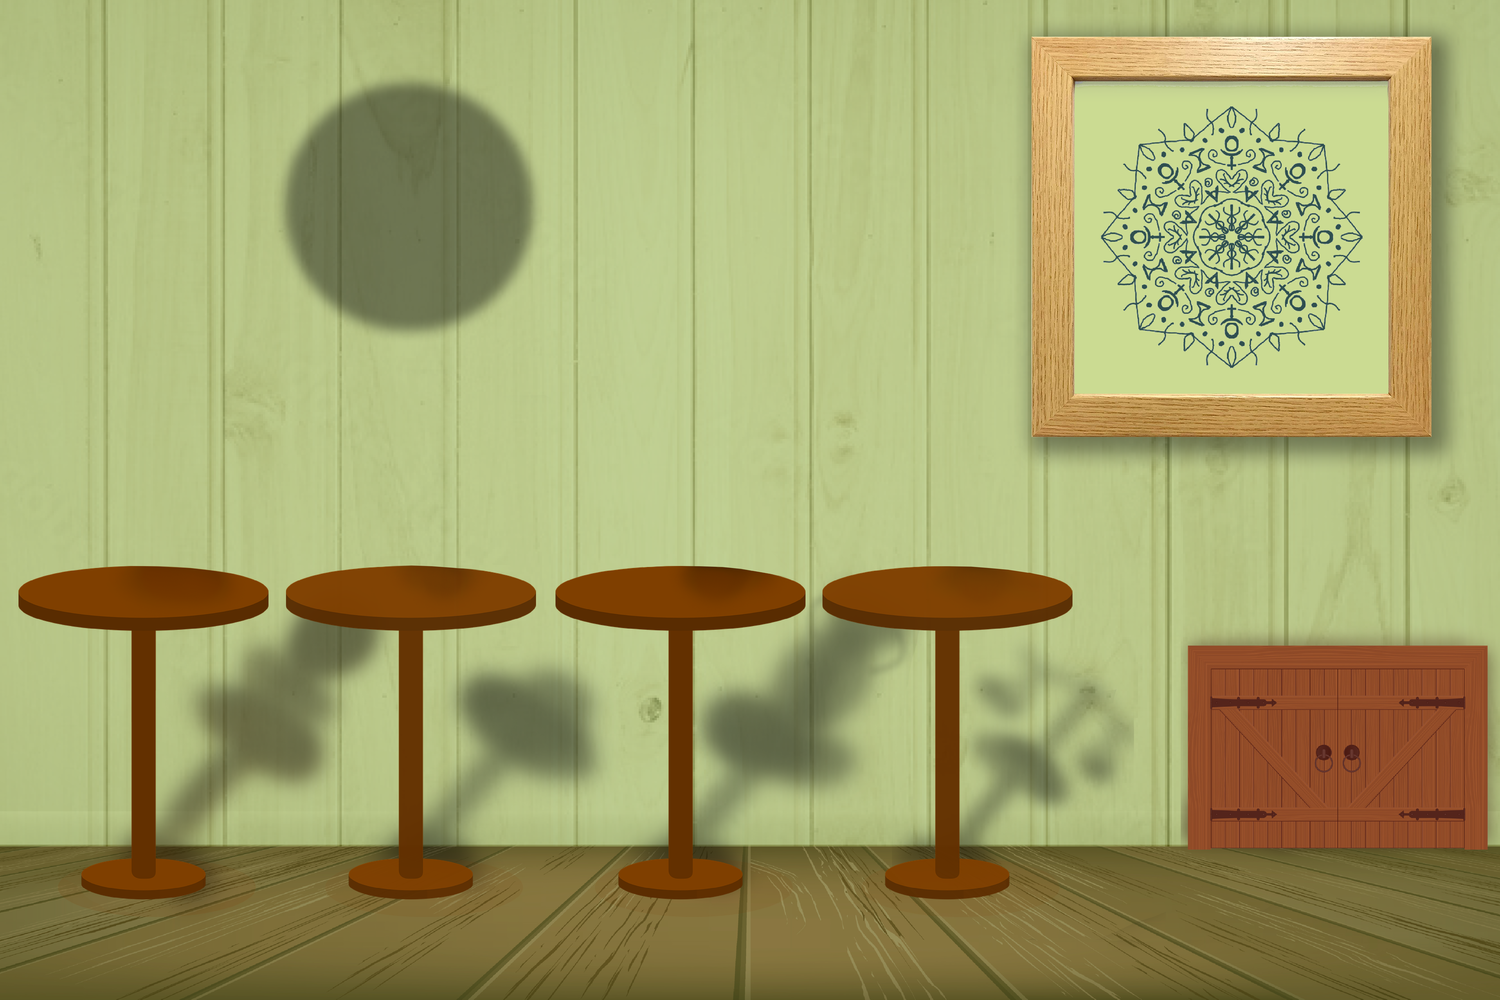
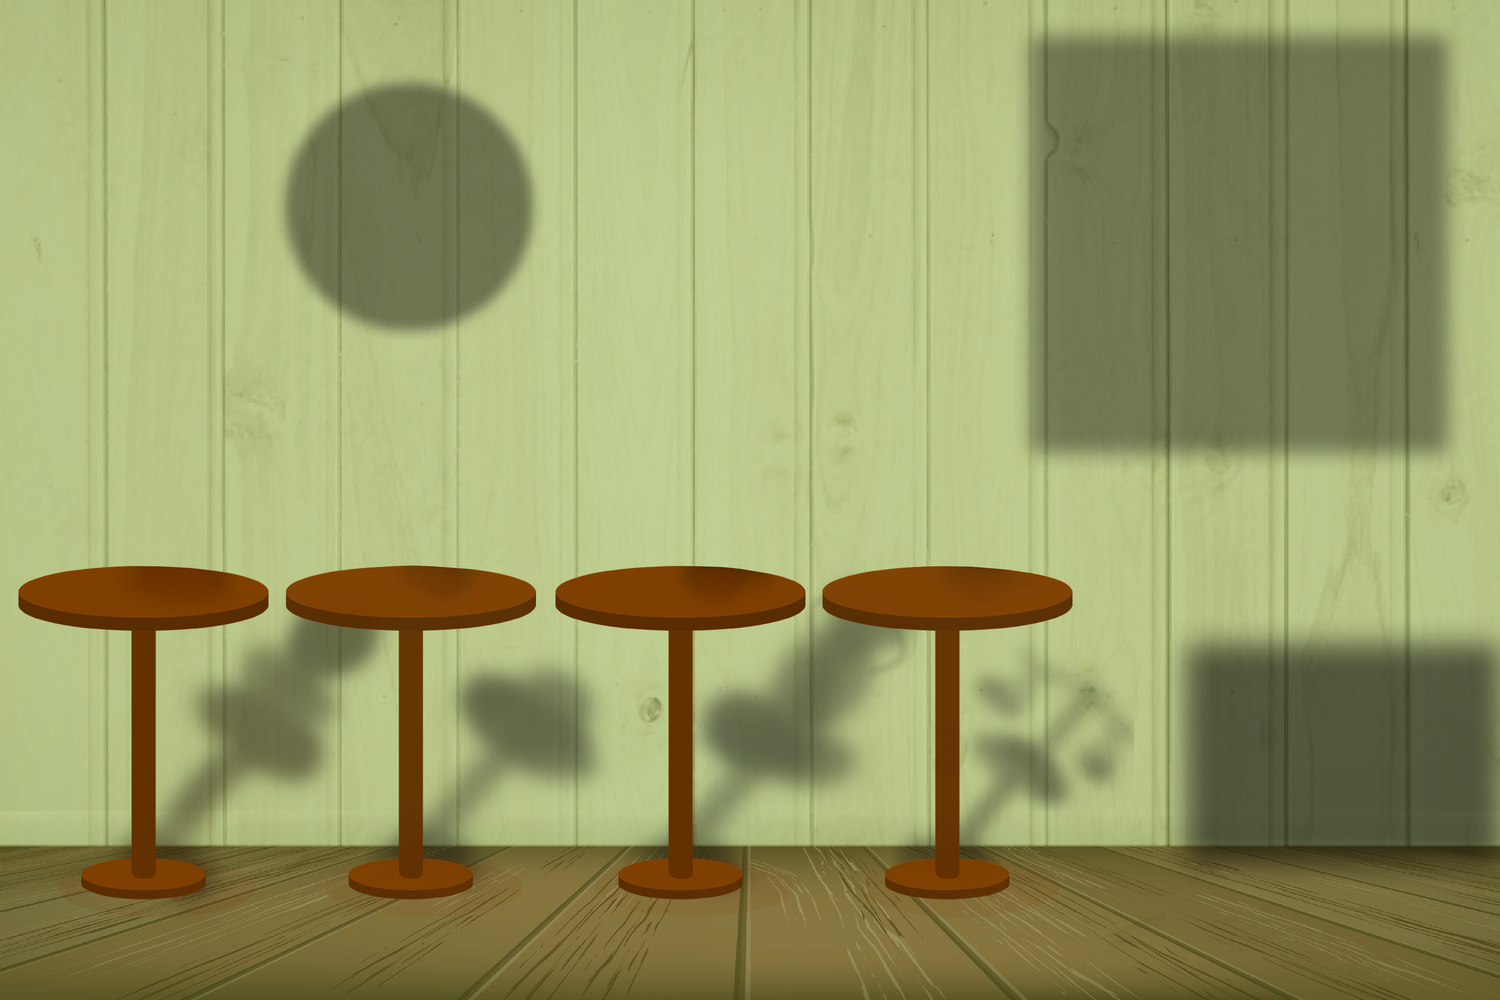
Fix Greece

Changed region(s): [[0.6747, 0.031, 0.9813, 0.434], [0.7667, 0.62, 1.0, 0.868]]

diff --git a/src/containers/Rooms/Greece.js b/src/containers/Rooms/Greece.js
@@ -1,10 +1,7 @@
-import {
-  Grid,
-  makeStyles,
-} from '@material-ui/core';
+import { Grid, makeStyles } from '@material-ui/core';
 import React from 'react';
 import { Image, Layer, Stage, Star, Text } from 'react-konva';
-import { useHistory } from "react-router-dom";
+import { useHistory } from 'react-router-dom';
 import useImage from 'use-image';
 
 import MessageSeries from '../../components/Dialog/MessageSeries';
@@ -18,62 +15,75 @@ const useStyles = makeStyles(() => ({
   },
 }));
 
-
 const Index = () => {
-  let history = useHistory()
+  let history = useHistory();
   const classes = useStyles();
   const [dialogOpen, setDialogOpen] = React.useState(false);
   const BACKGROUND_IMAGE = '/greece/greece room - empty.png';
   const [image] = useImage(process.env.PUBLIC_URL + BACKGROUND_IMAGE);
   const scaleY = window.innerHeight / image?.height;
-  const [objects, setObjects] = React.useState(
-    [
-      {
-        urlImage: process.env.PUBLIC_URL + '/greece/aristotle.png',
-        id: 0,
-        x: 880,
-        y: 595,
-        isHover: false,
-        onClick: () => goForward('/folan1'),
-      },
-      {
-        urlImage: process.env.PUBLIC_URL + '/greece/olive.png',
-        id: 1,
-        x: 320,
-        y: 445,
-        isHover: false,
-        onClick: () => goForward('/folan1'),
-      },
-      {
-        urlImage: process.env.PUBLIC_URL + '/greece/olympics.png',
-        id: 3,
-        x: 575,
-        y: 230,
-        isHover: false,
-        onClick: () => goForward('/folan1'),
-      }
-      , {
-        urlImage: process.env.PUBLIC_URL + '/greece/scales.png',
-        id: 4,
-        x: 125,
-        y: 60,
-        isHover: false,
-        onClick: () => goForward('/folan1'),
-      }
-      , {
-        urlImage: process.env.PUBLIC_URL + '/greece/vase.png',
-        id: 5,
-        x: 105,
-        y: 445,
-        isHover: false,
-        onClick: () => goForward('/folan1'),
-      }
-    ]
-  );
+  const [objects, setObjects] = React.useState([
+    {
+      urlImage: process.env.PUBLIC_URL + '/greece/aristotle.png',
+      id: 0,
+      x: 144,
+      y: 428,
+      isHover: false,
+      onClick: () => goForward('/folan1'),
+    },
+    {
+      urlImage: process.env.PUBLIC_URL + '/greece/olive.png',
+      id: 1,
+      x: 410,
+      y: 560,
+      isHover: false,
+      onClick: () => goForward('/folan1'),
+    },
+    {
+      urlImage: process.env.PUBLIC_URL + '/greece/olympics.png',
+      id: 3,
+      x: 400,
+      y: 200,
+      isHover: false,
+      onClick: () => goForward('/folan1'),
+    },
+    {
+      urlImage: process.env.PUBLIC_URL + '/greece/scales.png',
+      id: 4,
+      x: 948,
+      y: 515,
+      isHover: false,
+      onClick: () => goForward('/folan1'),
+    },
+    {
+      urlImage: process.env.PUBLIC_URL + '/greece/vase.png',
+      id: 5,
+      x: 680,
+      y: 480,
+      isHover: false,
+      onClick: () => goForward('/folan1'),
+    },
+    {
+      urlImage: process.env.PUBLIC_URL + '/greece/door.png',
+      id: 6,
+      x: 1338,
+      y: 748,
+      isHover: false,
+      onClick: () => goForward('/folan1'),
+    },
+    {
+      urlImage: process.env.PUBLIC_URL + '/greece/greece frame.png',
+      id: 7,
+      x: 1230,
+      y: 235,
+      isHover: false,
+      onClick: () => goForward('/folan1'),
+    },
+  ]);
 
   const goForward = (dst) => {
     history.push(dst);
-  }
+  };
 
   const handleMouseEnter = (e) => {
     const id = e.target.id();
@@ -100,7 +110,9 @@ const Index = () => {
 
   return (
     <Layout>
-      <Stage width={Math.min(image?.width * scaleY, window.innerWidth)} height={window.innerHeight}>
+      <Stage
+        width={Math.min(image?.width * scaleY, window.innerWidth)}
+        height={window.innerHeight}>
         <Layer
           draggable
           dragBoundFunc={(pos) => {
@@ -108,30 +120,32 @@ const Index = () => {
             if (window.innerWidth < image?.width * scaleY) {
               if (pos.x > 0) pos.x = 0;
               if (pos.x < window.innerWidth - image?.width * scaleY)
-                pos.x = window.innerWidth - image?.width * scaleY
+                pos.x = window.innerWidth - image?.width * scaleY;
             } else {
               pos.x = 0;
             }
             return pos;
-          }}
-        >
+          }}>
           <URLImage
             scaleX={scaleY}
             scaleY={scaleY}
-            src={process.env.PUBLIC_URL + BACKGROUND_IMAGE} />
+            src={process.env.PUBLIC_URL + BACKGROUND_IMAGE}
+          />
           {objects.map((object) => (
             <ItemImage
               key={object.id}
               object={object}
               scale={scaleY}
               handleMouseEnter={handleMouseEnter}
-              handleMouseExit={handleMouseExit} />
+              handleMouseExit={handleMouseExit}
+            />
           ))}
         </Layer>
       </Stage>
       <MessageSeries
         handleClose={() => setDialogOpen(!dialogOpen)}
-        open={dialogOpen} />
+        open={dialogOpen}
+      />
     </Layout>
   );
 };
